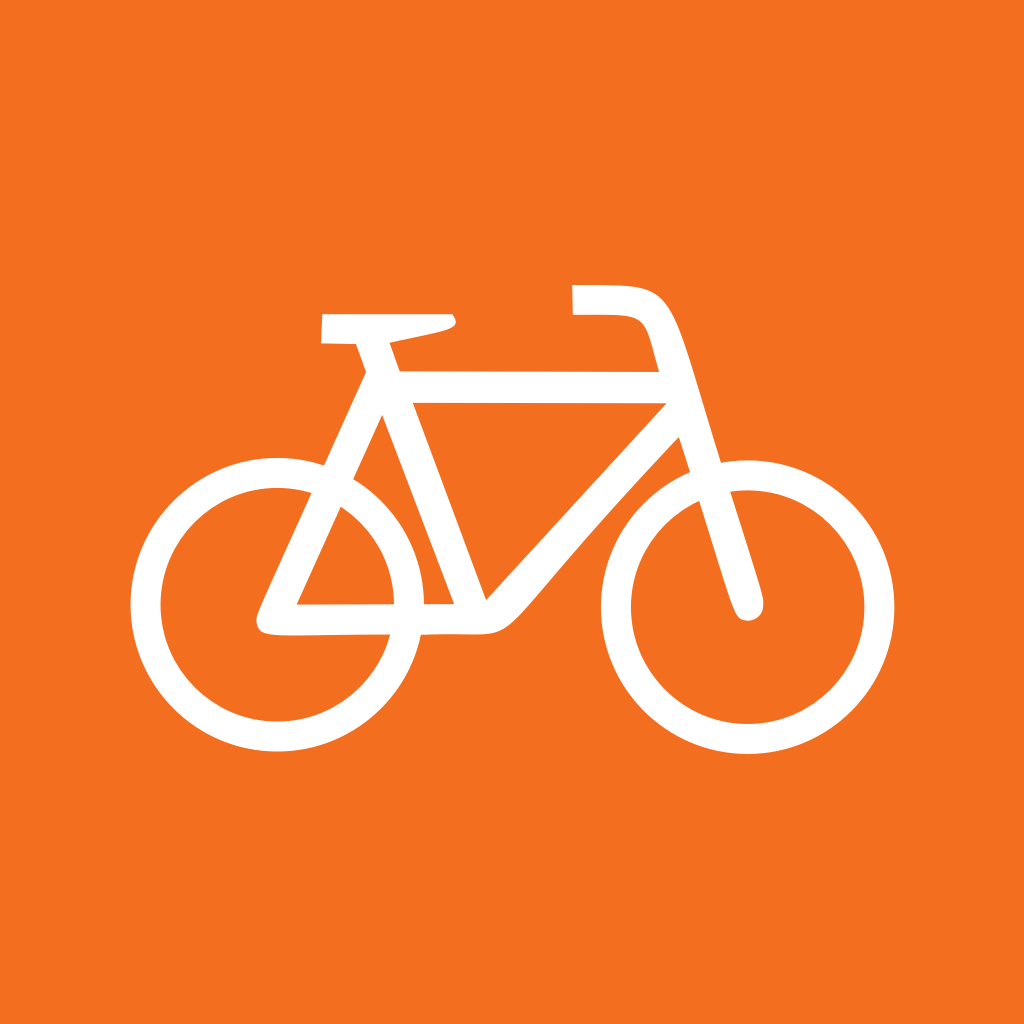
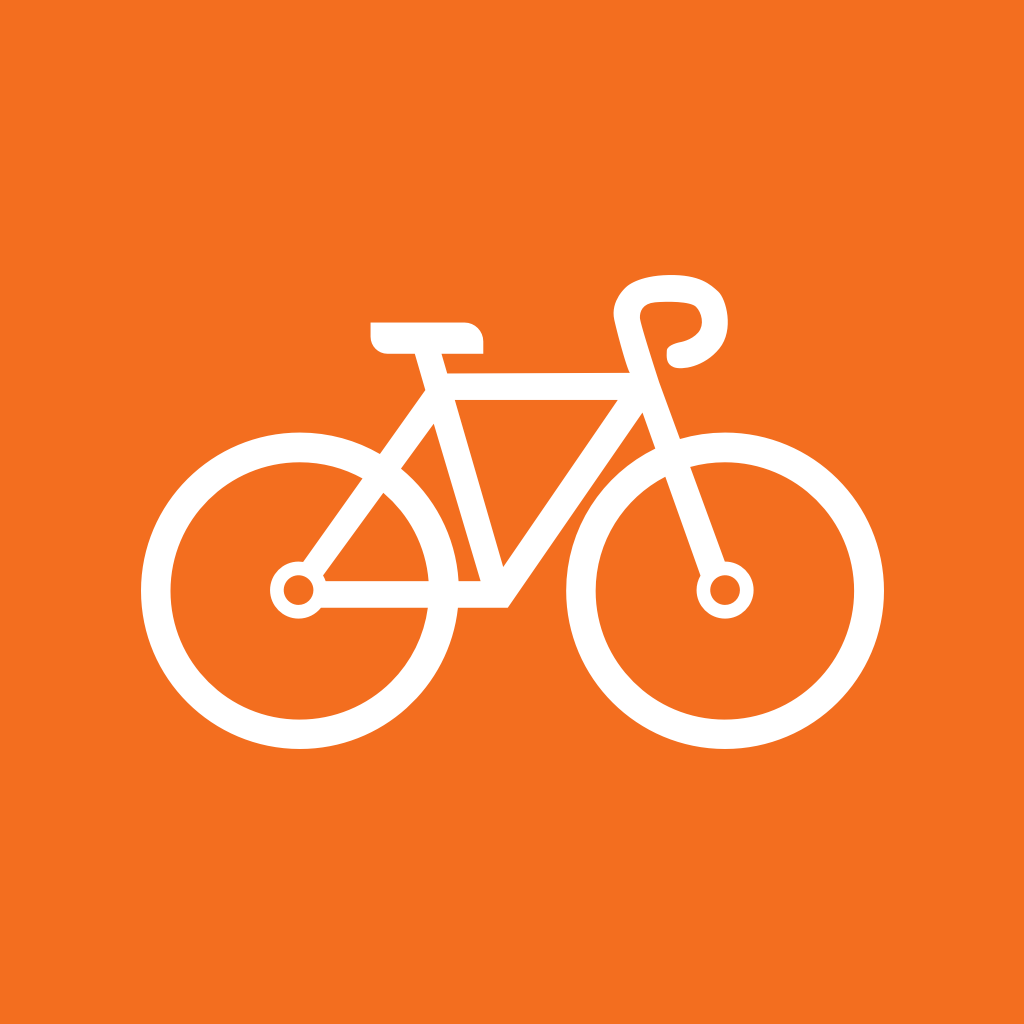
Update assets.

Changed region(s): [[0.1562, 0.25, 0.875, 0.75], [0.125, 0.5312, 0.2812, 0.75]]

diff --git a/src/js/svg/BikeRackMarker.js b/src/js/svg/BikeRackMarker.js
@@ -27,8 +27,9 @@ export default class BikeRackMarker extends React.Component {
         <G id="BikeRackMarker">
           <Circle id="Oval" cx="28" cy="28" r="28" fill="#F36E1F" />
           <Path
-            d="M35.9543352,5.95894292 C34.5841702,6.52273936 34.3809241,6.64770076 34.3026395,6.96892506 C34.2868356,7.05492791 34.5452116,7.95538506 34.8818723,8.97308541 L35.5004313,10.8129583 L32.0636252,15.1024421 C30.1689899,17.4586996 28.5955788,19.3691389 28.5720567,19.3456167 C28.5485345,19.3143764 27.4995938,17.0128814 26.2470396,14.2258746 L23.9690667,9.16089504 L24.36049,9.1450911 C25.0102892,9.10613254 25.2609471,9.04328431 25.4252346,8.87091108 C25.6600885,8.61253501 25.6365664,8.16634931 25.3704721,7.86901468 C25.1668585,7.6576829 24.9555267,7.58711646 22.93593,7.08616826 C20.6186311,6.50693541 20.52491,6.49884968 20.3367329,6.85131433 C20.2977743,6.92959897 20.2584482,7.36806648 20.2584482,7.82197039 C20.2584482,8.57357646 20.2742522,8.6595793 20.4462579,8.86319288 C20.6340675,9.07452466 20.6575896,9.08224286 21.565765,9.10576501 L22.4893767,9.13700536 L23.2880271,10.9063118 L24.0785917,12.6756182 L23.3034635,13.5055089 C22.8808,13.9594128 22.2074785,14.6720603 21.8083371,15.1024421 L21.0802532,15.8694846 L20.6495039,15.5798682 C18.332205,14.0141753 15.2478636,14.0689378 13.0165675,15.7129153 C10.3787794,17.6623131 9.50993011,21.1303595 10.9344901,24.034977 C12.0852376,26.3757981 14.3242518,27.7613995 16.9311672,27.7613995 C20.4227357,27.7691177 23.2332646,25.1857245 23.5853617,21.6629156 L23.6401242,21.0991192 L26.2235174,21.0991192 C27.7186438,21.0991192 28.8616731,21.0678788 28.9399577,21.0208345 C29.0182424,20.9815085 30.6232613,19.0243924 32.5098109,16.6758531 C34.3963605,14.3273139 35.9620534,12.4091564 35.9936613,12.4091564 C36.0484238,12.4091564 36.8937509,14.9848314 36.8470741,15.0160717 C36.8312702,15.0318757 36.5574577,15.1961631 36.2362334,15.3762546 C35.5551938,15.775396 34.6080599,16.652331 34.1773106,17.2863263 C33.7465613,17.9203217 33.3632238,18.7579306 33.1673284,19.4941003 C32.971433,20.2376206 32.9324745,21.7253963 33.0890438,22.4689167 C33.5587516,24.6373645 35.1869252,26.5632402 37.1991713,27.3225645 C38.0680205,27.651507 38.7020159,27.7687502 39.6337134,27.7687502 C40.9957926,27.7687502 42.1623441,27.4320895 43.219003,26.7433316 C44.6593669,25.7961977 45.559824,24.5903202 46.0684904,22.9228206 C46.2485818,22.3123474 46.272104,22.1006481 46.272104,21.1380777 C46.272104,19.8542831 46.1236204,19.1809617 45.6223047,18.1632613 C44.753823,16.4020407 43.2035665,15.1572046 41.2310141,14.625016 C40.7300659,14.4919689 39.164373,14.4372064 38.4675295,14.5232093 L38.1543909,14.5625353 L36.9959252,11.078685 C36.3619299,9.16052751 35.8374595,7.55587611 35.8374595,7.51655002 C35.8374595,7.46950573 36.2836452,7.25817395 36.8316377,7.04684217 C37.3796302,6.82779219 37.9199045,6.56941611 38.0452334,6.47532753 C38.3113277,6.24819181 38.3425681,5.87257254 38.0999959,5.56715218 C37.8489705,5.2462954 37.535832,5.30142543 35.9543352,5.95894292 Z M25.9651414,16.8563121 C26.6538992,18.3984828 27.2254138,19.6903632 27.2254138,19.7138853 C27.2254138,19.7451257 26.3800867,19.7686478 25.3465824,19.7686478 L23.4754692,19.7686478 L23.3894664,19.4319871 C23.1858528,18.6491407 22.8179517,17.8662943 22.3092853,17.1617325 L22.043191,16.7934639 L23.0450874,15.7364374 C23.6007981,15.1491189 24.1803985,14.5386457 24.3288821,14.3662724 C24.4773656,14.1938992 24.6184985,14.0531339 24.6497388,14.0531339 C24.6736285,14.0535014 25.2686653,15.3137739 25.9651414,16.8563121 Z M18.6299071,16.0653799 C19.3032286,16.3002339 20.1331193,16.7545053 20.086075,16.8717485 C20.070271,16.9029889 19.3973172,17.6468767 18.5751446,18.515726 C17.7610579,19.3845753 17.0642143,20.1674217 17.0252557,20.2537921 C16.9469711,20.4574056 17.0252557,20.6999778 17.2288693,20.9190278 C17.3854386,21.0991192 17.4012425,21.0991192 19.8435029,21.0991192 L22.3015671,21.0991192 L22.2545228,21.5453049 C22.0196689,23.5494652 20.9472061,25.0916359 19.2014218,25.9215266 C18.3167686,26.3441902 17.78458,26.445997 16.6963132,26.4070384 C15.8976629,26.3757981 15.6628089,26.336472 15.1229022,26.1328584 C13.5178833,25.5301034 12.3594176,24.3323117 11.827229,22.7041381 C11.6548558,22.1796678 11.6236154,21.9290099 11.6236154,21.1774038 C11.6155297,19.5257081 12.1322819,18.3201982 13.3223554,17.2084092 C14.402904,16.1984271 15.5848918,15.7599596 17.1270625,15.8070039 C17.7922982,15.830526 18.0819146,15.8775703 18.6299071,16.0653799 Z M41.1997737,16.0106175 C42.0844269,16.2847975 42.6949001,16.6681349 43.4310698,17.4120228 C44.5266873,18.515726 44.9574366,19.5881888 44.9493508,21.1774038 C44.9416326,21.9209242 44.9023065,22.187386 44.738019,22.7041381 C44.2058305,24.3323117 43.0469973,25.5301034 41.4423459,26.1328584 C40.9020716,26.336472 40.6672176,26.3754306 39.8689348,26.4070384 C38.780668,26.4463645 38.2484795,26.3445577 37.3638263,25.9215266 C35.9153766,25.2327688 34.8745217,23.9802145 34.4595763,22.4299581 C34.2872031,21.7643549 34.2794849,20.5276045 34.4518581,19.8465649 C34.7808006,18.5862924 35.6573681,17.3414564 36.7221127,16.6446128 C36.9962927,16.4722396 37.2388649,16.323756 37.262387,16.323756 C37.2936274,16.323756 37.6850506,17.4590671 38.1470402,18.8446685 C38.8593202,20.9976799 39.0158895,21.4045396 39.2195031,21.5923492 C39.4153984,21.7801588 39.5014013,21.8113992 39.6969291,21.7724406 C40.0023495,21.7099599 40.1978773,21.5298685 40.2530074,21.2634067 C40.2842477,21.1226413 40.0258716,20.2379881 39.4466388,18.4763999 L38.5935935,15.8930067 L38.797207,15.8382442 C39.2110498,15.7287192 40.6282591,15.830526 41.1997737,16.0106175 Z M21.7146161,18.789906 C21.9024257,19.1813292 22.058995,19.5650342 22.058995,19.6352331 C22.058995,19.7524763 21.9259478,19.7682803 20.6421532,19.7682803 L19.2253115,19.7682803 L20.1408375,18.789906 C21.2213861,17.6391585 21.1508196,17.6391585 21.7146161,18.789906 Z"
-            id="Frame"
+            x="12"
+            y="7"
+            d="M13.3464305,3.48997135 L13.6009517,4.36259821 L21.7120711,4.33492516 C21.6062878,4.20613905 21.2205529,2.86718921 21.0218085,1.99335946 C20.8230642,1.11952972 21.5710267,0.51391568 21.5710267,0.51391568 C21.5710267,0.51391568 22.0657506,0.0243155794 23.4420016,0.000899922418 C24.8182527,-0.0225157346 25.2873321,0.41599566 25.6378059,0.735300071 C25.9882798,1.05460449 26.3611925,2.42974216 25.6880263,3.25674059 C25.01486,4.08373902 24.0093846,4.22316861 23.6578423,4.08373902 C23.3062998,3.94430943 23.3415609,3.61649023 23.3533146,3.35040322 C23.3650683,3.08431621 23.9377939,2.97788141 23.9377939,2.97788141 C23.9377939,2.97788141 24.4410659,2.90231269 24.744525,2.55214218 C25.047984,2.20197168 24.8962545,1.65489679 24.6504953,1.41009674 C24.4047363,1.16529669 23.376822,1.16316799 22.8265353,1.212128 C22.2762486,1.261088 22.1469579,1.62083764 22.1597801,1.89969684 C22.1726023,2.17855602 23.0145944,4.75321395 23.0145944,4.75321395 L23.9374252,7.26651333 C24.5727148,7.08003272 25.2453375,6.97994269 25.9414991,6.97994269 C29.8398015,6.97994269 33,10.1184394 33,13.9899713 C33,17.8615032 29.8398015,21 25.9414991,21 C22.0431967,21 18.8829982,17.8615032 18.8829982,13.9899713 C18.8829982,11.2226892 20.4975632,8.82991934 22.842183,7.69009783 L22.273043,6.09429248 L16.2893427,14.7421203 L14.076847,14.7421203 C13.6989949,18.2599622 10.7009456,21 7.05850091,21 C3.1601985,21 -7.61172643e-16,17.8615032 0,13.9899713 C3.80586322e-16,10.1184394 3.1601985,6.97994269 7.05850091,6.97994269 C8.3533773,6.97994269 9.56681644,7.32622258 10.6100518,7.93062533 L12.6286004,5.09912706 L12.1603511,3.48997135 L10.9461255,3.48997135 C10.5316286,3.48997135 10.1956124,3.15143233 10.1956124,2.73382329 L10.1956124,2.10601719 L14.3706729,2.10601719 C14.8304848,2.10660734 15.2029254,2.48232299 15.202925,2.94558753 L15.202925,3.48997135 L13.3464305,3.48997135 Z M11.5463397,8.57903475 C13.0131431,9.7803306 13.9831105,11.5584969 14.1041772,13.5638871 L15.082986,13.5638871 L13.0015131,6.58921435 L11.5463397,8.57903475 Z M9.83803951,9.01355754 C9.01253251,8.55709191 8.06180981,8.29704934 7.04993087,8.29704934 C3.87993477,8.29704934 1.31014519,10.8491916 1.31014519,13.9974186 C1.31014519,17.1456457 3.87993477,19.697788 7.04993087,19.697788 L7.04885961,19.6967241 C8.57114544,19.6970063 10.0311953,19.096704 11.1078148,18.0278769 C12.0061037,17.1360897 12.5760697,15.9790859 12.7404066,14.7421203 L7.99321101,14.7421203 C7.76120237,15.0353083 7.40172131,15.2234957 6.99817185,15.2234957 C6.29847653,15.2234957 5.73126143,14.6577581 5.73126143,13.9598854 C5.73126143,13.2620127 6.29847653,12.6962751 6.99817185,12.6962751 C7.0665654,12.6962751 7.13438879,12.7017909 7.20104414,12.7125756 L9.83803951,9.01355754 Z M10.7629426,9.65026057 L8.08552263,13.3113946 C8.13332527,13.3911351 8.17212495,13.4758272 8.20126383,13.5638871 L12.7733651,13.5638871 C12.6547837,11.9978453 11.899078,10.6083259 10.7629426,9.65026057 Z M23.2870637,8.93749386 C21.4486499,9.88758958 20.1931434,11.7968913 20.1931434,13.9974186 C20.1931434,17.1456457 22.7629329,19.697788 25.932929,19.697788 L25.928644,19.6967241 C27.4514865,19.6978532 28.9123622,19.0979248 29.9896769,18.0290059 C31.0669916,16.960087 31.6724309,15.5098039 31.6727147,13.9974186 C31.6727147,10.8491916 29.1029251,8.29704934 25.932929,8.29704934 C25.3991657,8.29704934 24.8824193,8.36940703 24.3920924,8.50478452 L25.931135,12.6963164 C25.9345864,12.6962889 25.9380411,12.6962751 25.9414991,12.6962751 C26.2775046,12.6962751 26.5997482,12.8294051 26.83734,13.066378 C27.0749318,13.3033509 27.2084095,13.6247551 27.2084095,13.9598854 C27.2084095,14.6577581 26.6411944,15.2234957 25.9414991,15.2234957 C25.2418038,15.2234957 24.6745887,14.6577581 24.6745887,13.9598854 C24.6745887,13.7258282 24.7383914,13.5066342 24.8495962,13.3186612 L23.2870637,8.93749386 Z M6.99817185,14.6176842 L6.99498062,14.6166233 C7.17026341,14.6174694 7.33867351,14.5486852 7.46301715,14.4254617 C7.58736078,14.3022383 7.65740796,14.1347134 7.65768861,13.9598854 C7.65768861,13.6938306 7.4970025,13.4539733 7.25055796,13.3521585 C7.00411348,13.2503438 6.72044354,13.3066223 6.53182309,13.4947514 C6.34320263,13.6828805 6.28677715,13.9658115 6.3888578,14.2116141 C6.4909385,14.4574167 6.73142223,14.6176842 6.99817185,14.6176842 Z M25.9414991,14.6176842 L25.9383079,14.6166233 C26.1135906,14.6174694 26.2820007,14.5486852 26.4063444,14.4254617 C26.530688,14.3022383 26.6007352,14.1347134 26.6010159,13.9598854 C26.6010159,13.6938306 26.4403297,13.4539733 26.1938852,13.3521585 C25.9474407,13.2503438 25.6637708,13.3066223 25.4751503,13.4947514 C25.2865299,13.6828805 25.2301044,13.9658115 25.332185,14.2116141 C25.4342657,14.4574167 25.6747495,14.6176842 25.9414991,14.6176842 Z M21.1755027,5.53581662 L13.9360146,5.53581662 L16.0877157,12.9369628 L21.1755027,5.53581662 Z"
             fill="#FFFFFF"
             fillRule="nonzero"
           />

diff --git a/src/js/svg/Bike.js b/src/js/svg/Bike.js
@@ -5,18 +5,17 @@ import { Svg } from 'expo';
 const { Path } = Svg;
 
 const Bike = ({ width, height, fill }) => {
-  const svgHeight = height || width * 23 / 37;
-  const svgWidth = width || height * 37 / 23;
+  const svgHeight = height || width * 349 / 547;
+  const svgWidth = width || height * 547 / 349;
   return (
     <Svg
       preserveAspectRatio="false"
       width={`${svgWidth}`}
       height={`${svgHeight}`}
-      viewBox="0 0 37 23"
+      viewBox="0 0 547 349"
     >
       <Path
-        d="M25.9543352,0.95894292 C24.5841702,1.52273936 24.3809241,1.64770076 24.3026395,1.96892506 C24.2868356,2.05492791 24.5452116,2.95538506 24.8818723,3.97308541 L25.5004313,5.81295826 L22.0636252,10.1024421 C20.1689899,12.4586996 18.5955788,14.3691389 18.5720567,14.3456167 C18.5485345,14.3143764 17.4995938,12.0128814 16.2470396,9.22587463 L13.9690667,4.16089504 L14.36049,4.1450911 C15.0102892,4.10613254 15.2609471,4.04328431 15.4252346,3.87091108 C15.6600885,3.61253501 15.6365664,3.16634931 15.3704721,2.86901468 C15.1668585,2.6576829 14.9555267,2.58711646 12.93593,2.08616826 C10.6186311,1.50693541 10.52491,1.49884968 10.3367329,1.85131433 C10.2977743,1.92959897 10.2584482,2.36806648 10.2584482,2.82197039 C10.2584482,3.57357646 10.2742522,3.6595793 10.4462579,3.86319288 C10.6340675,4.07452466 10.6575896,4.08224286 11.565765,4.10576501 L12.4893767,4.13700536 L13.2880271,5.90631178 L14.0785917,7.6756182 L13.3034635,8.50550891 C12.8808,8.95941282 12.2074785,9.67206033 11.8083371,10.1024421 L11.0802532,10.8694846 L10.6495039,10.5798682 C8.33220498,9.01417531 5.24786359,9.06893781 3.01656753,10.7129153 C0.378779376,12.6623131 -0.490069891,16.1303595 0.934490075,19.034977 C2.08523756,21.3757981 4.32425183,22.7613995 6.93116716,22.7613995 C10.4227357,22.7691177 13.2332646,20.1857245 13.5853617,16.6629156 L13.6401242,16.0991192 L16.2235174,16.0991192 C17.7186438,16.0991192 18.8616731,16.0678788 18.9399577,16.0208345 C19.0182424,15.9815085 20.6232613,14.0243924 22.5098109,11.6758531 C24.3963605,9.32731388 25.9620534,7.40915639 25.9936613,7.40915639 C26.0484238,7.40915639 26.8937509,9.98483137 26.8470741,10.0160717 C26.8312702,10.0318757 26.5574577,10.1961631 26.2362334,10.3762546 C25.5551938,10.775396 24.6080599,11.652331 24.1773106,12.2863263 C23.7465613,12.9203217 23.3632238,13.7579306 23.1673284,14.4941003 C22.971433,15.2376206 22.9324745,16.7253963 23.0890438,17.4689167 C23.5587516,19.6373645 25.1869252,21.5632402 27.1991713,22.3225645 C28.0680205,22.651507 28.7020159,22.7687502 29.6337134,22.7687502 C30.9957926,22.7687502 32.1623441,22.4320895 33.219003,21.7433316 C34.6593669,20.7961977 35.559824,19.5903202 36.0684904,17.9228206 C36.2485818,17.3123474 36.272104,17.1006481 36.272104,16.1380777 C36.272104,14.8542831 36.1236204,14.1809617 35.6223047,13.1632613 C34.753823,11.4020407 33.2035665,10.1572046 31.2310141,9.62501604 C30.7300659,9.4919689 29.164373,9.43720641 28.4675295,9.52320925 L28.1543909,9.56253534 L26.9959252,6.078685 C26.3619299,4.16052751 25.8374595,2.55587611 25.8374595,2.51655002 C25.8374595,2.46950573 26.2836452,2.25817395 26.8316377,2.04684217 C27.3796302,1.82779219 27.9199045,1.56941611 28.0452334,1.47532753 C28.3113277,1.24819181 28.3425681,0.87257254 28.0999959,0.567152176 C27.8489705,0.246295404 27.535832,0.301425433 25.9543352,0.95894292 Z M15.9651414,11.8563121 C16.6538992,13.3984828 17.2254138,14.6903632 17.2254138,14.7138853 C17.2254138,14.7451257 16.3800867,14.7686478 15.3465824,14.7686478 L13.4754692,14.7686478 L13.3894664,14.4319871 C13.1858528,13.6491407 12.8179517,12.8662943 12.3092853,12.1617325 L12.043191,11.7934639 L13.0450874,10.7364374 C13.6007981,10.1491189 14.1803985,9.53864566 14.3288821,9.36627244 C14.4773656,9.19389921 14.6184985,9.05313387 14.6497388,9.05313387 C14.6736285,9.0535014 15.2686653,10.3137739 15.9651414,11.8563121 Z M8.62990714,11.0653799 C9.30322857,11.3002339 10.1331193,11.7545053 10.086075,11.8717485 C10.070271,11.9029889 9.39731715,12.6468767 8.57514465,13.515726 C7.76105788,14.3845753 7.0642143,15.1674217 7.02525575,15.2537921 C6.94697111,15.4574056 7.02525575,15.6999778 7.22886932,15.9190278 C7.38543861,16.0991192 7.40124255,16.0991192 9.84350286,16.0991192 L12.3015671,16.0991192 L12.2545228,16.5453049 C12.0196689,18.5494652 10.9472061,20.0916359 9.20142178,20.9215266 C8.31676857,21.3441902 7.78458002,21.445997 6.69631324,21.4070384 C5.89766287,21.3757981 5.66280895,21.336472 5.12290219,21.1328584 C3.51788326,20.5301034 2.35941757,19.3323117 1.82722902,17.7041381 C1.6548558,17.1796678 1.62361544,16.9290099 1.62361544,16.1774038 C1.61552971,14.5257081 2.13228185,13.3201982 3.32235542,12.2084092 C4.402904,11.1984271 5.58489184,10.7599596 7.12706254,10.8070039 C7.79229823,10.830526 8.08191465,10.8775703 8.62990714,11.0653799 Z M31.1997737,11.0106175 C32.0844269,11.2847975 32.6949001,11.6681349 33.4310698,12.4120228 C34.5266873,13.515726 34.9574366,14.5881888 34.9493508,16.1774038 C34.9416326,16.9209242 34.9023065,17.187386 34.738019,17.7041381 C34.2058305,19.3323117 33.0469973,20.5301034 31.4423459,21.1328584 C30.9020716,21.336472 30.6672176,21.3754306 29.8689348,21.4070384 C28.780668,21.4463645 28.2484795,21.3445577 27.3638263,20.9215266 C25.9153766,20.2327688 24.8745217,18.9802145 24.4595763,17.4299581 C24.2872031,16.7643549 24.2794849,15.5276045 24.4518581,14.8465649 C24.7808006,13.5862924 25.6573681,12.3414564 26.7221127,11.6446128 C26.9962927,11.4722396 27.2388649,11.323756 27.262387,11.323756 C27.2936274,11.323756 27.6850506,12.4590671 28.1470402,13.8446685 C28.8593202,15.9976799 29.0158895,16.4045396 29.2195031,16.5923492 C29.4153984,16.7801588 29.5014013,16.8113992 29.6969291,16.7724406 C30.0023495,16.7099599 30.1978773,16.5298685 30.2530074,16.2634067 C30.2842477,16.1226413 30.0258716,15.2379881 29.4466388,13.4763999 L28.5935935,10.8930067 L28.797207,10.8382442 C29.2110498,10.7287192 30.6282591,10.830526 31.1997737,11.0106175 Z M11.7146161,13.789906 C11.9024257,14.1813292 12.058995,14.5650342 12.058995,14.6352331 C12.058995,14.7524763 11.9259478,14.7682803 10.6421532,14.7682803 L9.22531146,14.7682803 L10.1408375,13.789906 C11.2213861,12.6391585 11.1508196,12.6391585 11.7146161,13.789906 Z"
-        id="Frame"
+        d="M221.227196,58 L225.446078,72.5022274 L359.894027,72.0423277 C358.140589,69.9020251 351.74674,47.649954 348.452402,33.1277358 C345.158064,18.6055177 357.55611,8.54078916 357.55611,8.54078916 C357.55611,8.54078916 365.756532,0.404101772 388.568936,0.0149558535 C411.38134,-0.374190065 419.156686,6.91345168 424.966056,12.2199869 C430.775426,17.5265222 436.956737,40.3800007 425.798496,54.123927 C414.640255,67.8678533 397.973739,70.1850403 392.146658,67.8678533 C386.319576,65.5506662 386.904055,60.1026234 387.098882,55.6805106 C387.293708,51.2583979 396.787069,49.4895529 396.787069,49.4895529 C396.787069,49.4895529 405.129183,48.2336728 410.159247,42.4141725 C415.189311,36.5946722 412.674279,27.5028085 408.600635,23.4344648 C404.526992,19.3661211 387.488535,19.3307442 378.367115,20.1444129 C369.245696,20.9580816 367.102605,26.936778 367.315143,31.5711522 C367.527681,36.2055263 381.484338,78.9938889 381.484338,78.9938889 L396.780957,120.762531 C407.311364,117.663401 418.460594,116 430,116 C494.617316,116 547,168.158827 547,232.5 C547,296.841173 494.617316,349 430,349 C365.382684,349 313,296.841173 313,232.5 C313,186.510407 339.762639,146.74485 378.626488,127.802102 L369.192562,101.281337 L270.008196,245 L233.334403,245 C227.071218,303.463182 177.37628,349 117,349 C52.3826843,349 -1.26170132e-14,296.841173 0,232.5 C6.30850661e-15,168.158827 52.3826843,116 117,116 C138.463557,116 158.57723,121.754842 175.869646,131.79944 L209.328618,84.7426354 L201.567032,58 L181.440322,58 C174.569722,58 169,52.373804 169,45.4335394 L169,35 L238.204791,35 C245.82652,35.0098077 252.000006,41.2538439 252,48.9528594 L252,58 L221.227196,58 Z M191.389327,142.575387 C215.702706,162.53978 231.780649,192.09121 233.787422,225.418885 L250.01192,225.418885 L215.50993,109.506467 L191.389327,142.575387 Z M163.072958,149.796742 C149.389554,142.210718 133.630605,137.889058 116.857945,137.889058 C64.3128581,137.889058 21.716649,180.303232 21.716649,232.623767 C21.716649,284.944302 64.3128581,327.358476 116.857945,327.358476 L116.840188,327.340795 C142.073229,327.345485 166.274661,317.369033 184.120445,299.606144 C199.010264,284.785491 208.457883,265.55719 211.181892,245 L132.493528,245 C128.647809,249.872504 122.689138,253 116,253 C104.40202,253 95,243.59798 95,232 C95,220.40202 104.40202,211 116,211 C117.133675,211 118.257899,211.091668 119.362762,211.2709 L163.072958,149.796742 Z M178.403928,160.37814 L134.023663,221.2227 C134.816028,222.547912 135.459162,223.955414 135.942161,225.418885 L211.728203,225.418885 C209.762627,199.392762 197.236233,176.300273 178.403928,160.37814 Z M386.000723,148.532636 C355.527621,164.322322 334.716649,196.053099 334.716649,232.623767 C334.716649,284.944302 377.312858,327.358476 429.857945,327.358476 L429.786918,327.340795 C455.029186,327.35956 479.244306,317.389322 497.101614,299.624908 C514.958922,281.860493 524.994537,257.758169 524.999241,232.623767 C524.999241,180.303232 482.403032,137.889058 429.857945,137.889058 C421.010414,137.889058 412.444951,139.091574 404.317411,141.341419 L429.828207,211.000687 C429.885417,211.00023 429.942682,211 430,211 C435.569546,211 440.910978,213.212494 444.849242,217.150758 C448.787506,221.089022 451,226.430454 451,232 C451,243.59798 441.59798,253 430,253 C418.40202,253 409,243.59798 409,232 C409,228.110193 410.057578,224.467397 411.900882,221.343465 L386.000723,148.532636 Z M116,242.93199 L115.947103,242.914358 C118.852548,242.92842 121.644073,241.785292 123.705163,239.737435 C125.766253,237.689579 126.927338,234.905475 126.93199,232 C126.93199,227.578423 124.268496,223.592223 120.183491,221.900158 C116.098487,220.208094 111.396443,221.143389 108.269916,224.269916 C105.143389,227.396443 104.208094,232.098487 105.900158,236.183491 C107.592223,240.268496 111.578423,242.93199 116,242.93199 Z M430,242.93199 L429.947103,242.914358 C432.852548,242.92842 435.644073,241.785292 437.705163,239.737435 C439.766253,237.689579 440.927338,234.905475 440.93199,232 C440.93199,227.578423 438.268496,223.592223 434.183491,221.900158 C430.098487,220.208094 425.396443,221.143389 422.269916,224.269916 C419.143389,227.396443 418.208094,232.098487 419.900158,236.183491 C421.592223,240.268496 425.578423,242.93199 430,242.93199 Z M351,92 L231,92 L266.666075,215 L351,92 Z"
         fill={fill}
         fillRule="nonzero"
       />
